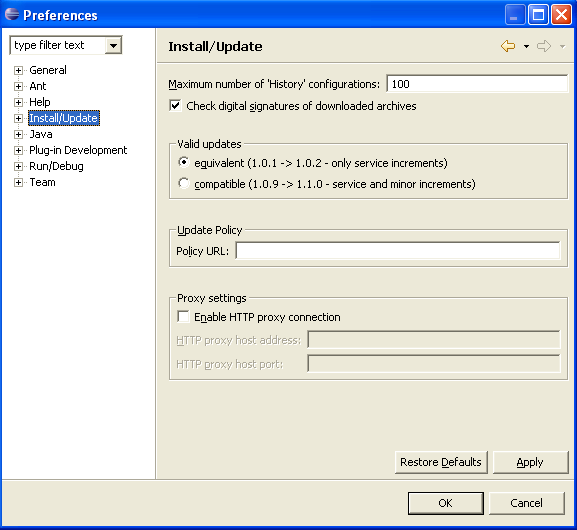
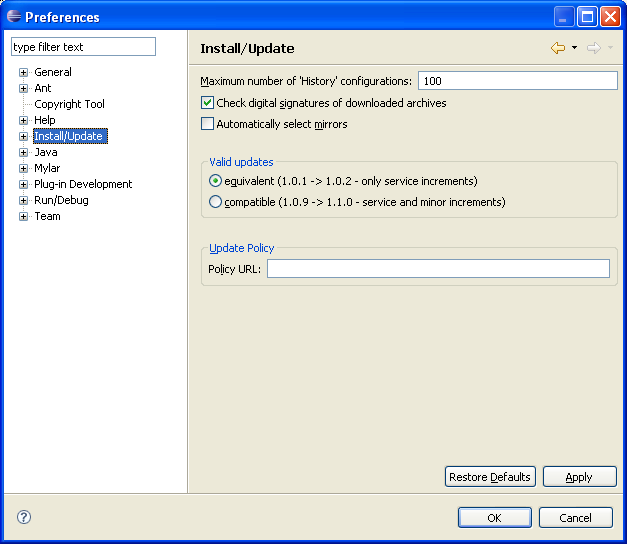
Bug 174854 [DOC] [SSH2] Document how to set SSH2 proxies

Changed region(s): [[0.0, 0.0, 1.0, 0.9962]]

diff --git a/bundles/org.eclipse.platform.doc.user/reference/ref-21.htm b/bundles/org.eclipse.platform.doc.user/reference/ref-21.htm
@@ -50,6 +50,14 @@ Install/Update</H1>
     </TR>
     <TR> 
       <TD ROWSPAN="1" COLSPAN="1" valign="top" align="left"> <P CLASS="Para"> 
+          Automatically select mirros</P></TD>
+      <TD ROWSPAN="1" COLSPAN="1" valign="top" align="left"> <P CLASS="Para"> 
+          This option will automatically select a mirror when updating.</p></TD>
+      <TD ROWSPAN="1" COLSPAN="1" valign="top" align="left"> <P CLASS="Para"> 
+          Off</P></TD>
+    </TR>
+    <TR> 
+      <TD ROWSPAN="1" COLSPAN="1" valign="top" align="left"> <P CLASS="Para"> 
           Valid updates</P></TD>
       <TD ROWSPAN="1" COLSPAN="1" valign="top" align="left"> <P CLASS="Para"> 
           Assuming that feature versions use the form 'major.minor.service', you 
@@ -72,13 +80,6 @@ Install/Update</H1>
       <TD ROWSPAN="1" COLSPAN="1" valign="top" align="left"> <P CLASS="Para"> 
           No policy</P></TD>
     </TR>
-    <TR> 
-      <TD COLSPAN="1" valign="top" align="left"> Proxy settings</TD>
-      <TD COLSPAN="1" valign="top" align="left"> Allows connection to the remote 
-        server from behind the firewall. When enabled, proxy host address (required) 
-        and port number (optional) can be specified.</TD>
-      <TD COLSPAN="1" valign="top" align="left"> No proxy</TD>
-    </TR>
   </TBODY>
 </TABLE>
 
@@ -91,6 +92,7 @@ Install/Update</H1>
 </p>
 
 <p><img border="0" src="../images/ngrelr.png" alt="Related reference" >
+<br><a HREF="ref-net-preferences.htm">Network Connections</a>
 <br><a HREF="ref-61.htm">Help Menu</a>
 </p>
 
